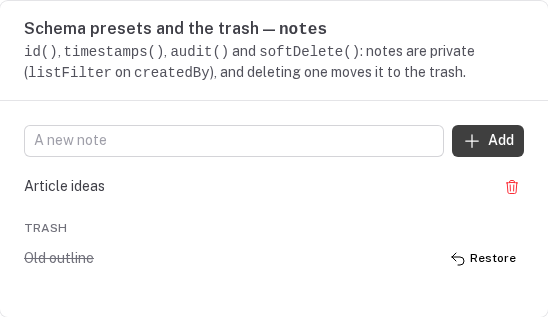
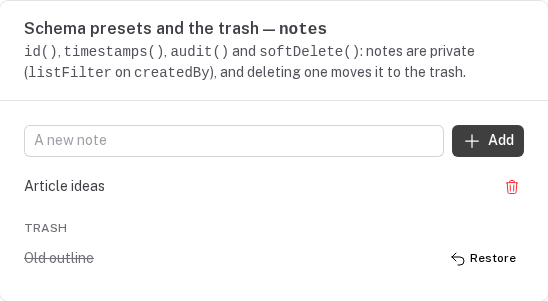
docs(playground): recipes use scope, row and refusal
publish takes permissions.publish instead of a named gate. New recipes: unpublish (the row rule decides), search (a POST that only reads) and export (a permission with no resource).

diff --git a/apps/playground/app/pages/demo/recipes.vue b/apps/playground/app/pages/demo/recipes.vue
@@ -59,15 +59,15 @@
         </div>
       </UCard>
 
-      <!-- named gate -->
+      <!-- scope + row + refusal -->
       <UCard>
         <template #header>
           <h3 class="font-semibold">
-            A gate of its own — <code>endpointName</code>
+            An action of its own — <code>scope</code>, <code>row</code>, <code>refusal</code>
           </h3>
           <p class="text-sm text-neutral-600 dark:text-neutral-400">
-            Authors may edit only their own posts, but <code>POST /api/recipes/posts/:id/publish</code> is gated by
-            <code>custom.publish</code>: editors and admins publish any draft.
+            Authors may edit only their own posts, but <code>POST /api/recipes/posts/:id/publish</code> asks
+            <code>permissions.publish</code>: editors and admins publish any draft, and everyone else reads the refusal.
           </p>
         </template>
         <div class="flex gap-2">
@@ -91,6 +91,103 @@
           :class="publishResult.ok ? 'text-success' : 'text-error'"
         >
           {{ publishResult.message }}
+        </p>
+      </UCard>
+
+      <!-- the row rule -->
+      <UCard>
+        <template #header>
+          <h3 class="font-semibold">
+            The row rule decides — <code>scope: 'update'</code>
+          </h3>
+          <p class="text-sm text-neutral-600 dark:text-neutral-400">
+            <code>POST /api/recipes/posts/:id/unpublish</code> asks what <code>PATCH /api/posts/:id</code> asks, so
+            <code>objectLevel</code> lets an author take back only their own post.
+          </p>
+        </template>
+        <div class="flex gap-2">
+          <USelect
+            v-model="unpublishId"
+            :items="live"
+            placeholder="Pick a published post"
+            class="flex-1"
+          />
+          <UButton
+            :disabled="!unpublishId"
+            color="neutral"
+            icon="i-heroicons-arrow-uturn-left"
+            @click="unpublish"
+          >
+            Unpublish
+          </UButton>
+        </div>
+        <p
+          v-if="unpublishResult"
+          class="mt-3 text-sm"
+          :class="unpublishResult.ok ? 'text-success' : 'text-error'"
+        >
+          {{ unpublishResult.message }}
+        </p>
+      </UCard>
+
+      <!-- a POST that only reads -->
+      <UCard>
+        <template #header>
+          <h3 class="font-semibold">
+            A POST that only reads — <code>scope: 'read'</code>
+          </h3>
+          <p class="text-sm text-neutral-600 dark:text-neutral-400">
+            <code>POST /api/recipes/posts/search</code> would need <code>create</code> by its method. Its scope says it
+            only reads, so a signed-out reader and a read-only token may call it.
+          </p>
+        </template>
+        <div class="flex gap-2">
+          <UInput
+            v-model="searchText"
+            placeholder="Search titles"
+            class="flex-1"
+          />
+          <UButton
+            :disabled="!searchText"
+            icon="i-heroicons-magnifying-glass"
+            @click="search"
+          >
+            Search
+          </UButton>
+        </div>
+        <p
+          v-if="searchResult"
+          class="mt-3 text-sm"
+          :class="searchResult.ok ? 'text-success' : 'text-error'"
+        >
+          {{ searchResult.message }}
+        </p>
+      </UCard>
+
+      <!-- a whole permission -->
+      <UCard>
+        <template #header>
+          <h3 class="font-semibold">
+            A permission of no resource — <code>scope: 'reports:export'</code>
+          </h3>
+          <p class="text-sm text-neutral-600 dark:text-neutral-400">
+            <code>GET /api/recipes/export</code> has no <code>resource</code>. A scope with a colon names the whole
+            permission, and here only admins hold it.
+          </p>
+        </template>
+        <UButton
+          color="neutral"
+          icon="i-heroicons-arrow-down-tray"
+          @click="exportReport"
+        >
+          Export
+        </UButton>
+        <p
+          v-if="exportResult"
+          class="mt-3 text-sm"
+          :class="exportResult.ok ? 'text-success' : 'text-error'"
+        >
+          {{ exportResult.message }}
         </p>
       </UCard>
 
@@ -231,9 +328,10 @@ async function loadPosts() {
   posts.value = (await $fetch<{ data: Post[] }>('/api/posts', { query: { limit: 50, sort: 'id' } })).data
 }
 const drafts = computed(() => posts.value.filter(p => !p.published).map(p => ({ label: `#${p.id} ${p.title}`, value: p.id })))
+const live = computed(() => posts.value.filter(p => p.published).map(p => ({ label: `#${p.id} ${p.title}`, value: p.id })))
 const firstPosts = computed(() => posts.value.slice(0, 5))
 
-// Named gate
+// scope + row + refusal
 const publishId = ref<number | undefined>()
 const publishResult = ref<{ ok: boolean, message: string } | null>(null)
 async function publish() {
@@ -244,6 +342,43 @@ async function publish() {
     await Promise.all([loadPosts(), loadStats()])
   } catch (e) {
     publishResult.value = { ok: false, message: message(e) }
+  }
+}
+
+// The row rule
+const unpublishId = ref<number | undefined>()
+const unpublishResult = ref<{ ok: boolean, message: string } | null>(null)
+async function unpublish() {
+  try {
+    const { data } = await $fetch<{ data: Post }>(`/api/recipes/posts/${unpublishId.value}/unpublish`, { method: 'POST' })
+    unpublishResult.value = { ok: true, message: `Unpublished "${data.title}"` }
+    unpublishId.value = undefined
+    await Promise.all([loadPosts(), loadStats()])
+  } catch (e) {
+    unpublishResult.value = { ok: false, message: message(e) }
+  }
+}
+
+// A POST that only reads
+const searchText = ref('')
+const searchResult = ref<{ ok: boolean, message: string } | null>(null)
+async function search() {
+  try {
+    const { data } = await $fetch<{ data: Post[] }>('/api/recipes/posts/search', { method: 'POST', body: { text: searchText.value } })
+    searchResult.value = { ok: true, message: `${data.length} ${data.length === 1 ? 'post' : 'posts'} found` }
+  } catch (e) {
+    searchResult.value = { ok: false, message: message(e) }
+  }
+}
+
+// A whole permission
+const exportResult = ref<{ ok: boolean, message: string } | null>(null)
+async function exportReport() {
+  try {
+    const { data } = await $fetch<{ data: { users: number, posts: number } }>('/api/recipes/export')
+    exportResult.value = { ok: true, message: `${data.users} users, ${data.posts} posts` }
+  } catch (e) {
+    exportResult.value = { ok: false, message: message(e) }
   }
 }
 

diff --git a/apps/playground/modules/base/auth.ts b/apps/playground/modules/base/auth.ts
@@ -57,23 +57,26 @@ export const postsAuth: ResourceAuthConfig = {
     // Authenticated users can update (but object-level auth will restrict to own posts)
     update: context => !!context.user,
     // Authenticated users can delete (but object-level auth will restrict to own posts)
-    delete: context => !!context.user
-  },
-  // Named gates for custom endpoints (createEndpoint({ endpointName })): publishing is for editors and admins, on
-  // any post — /api/recipes/posts/:id/publish
-  custom: {
-    publish: { permissions: { update: ['editor', 'admin'] } }
+    delete: context => !!context.user,
+    // An action of its own: createEndpoint({ scope: 'publish' }) — /api/recipes/posts/:id/publish
+    publish: ['editor', 'admin']
   },
   // Object-level: users can only edit their own posts unless they're admin
   objectLevel: async (object, context) => {
+    // What's being done: a custom endpoint's scope, else the generated route's operation
+    const action = context.endpointScope ?? context.operation
+
     // Allow reading all posts
-    if (context.operation === 'get' || context.operation === 'list') return true
+    if (action === 'get' || action === 'list' || action === 'read') return true
 
     // Admins can do anything
     if (context.user?.role === 'admin') return true
 
+    // permissions.publish decided: editors publish anyone's post
+    if (action === 'publish') return true
+
     // For update/delete, must be the owner
-    if (context.operation === 'update' || context.operation === 'delete') {
+    if (action === 'update' || action === 'delete') {
       return context.user && String(object.userId) === String(context.user.id)
     }
 

diff --git a/apps/playground/server/api/users/[id]/stats.get.ts b/apps/playground/server/api/users/[id]/stats.get.ts
@@ -3,25 +3,21 @@ import { posts, comments } from '../../../database/schema'
 
 /**
  * Custom endpoint using createEndpoint (auto-imported).
- * Demonstrates: resource-bound endpoint, row access helpers, response filtering.
+ * Demonstrates: `row` on a GET, and the response filtered like the generated route's.
  */
 export default createEndpoint({
   resource: 'users',
-  operation: 'get',
+  row: 'id', // the answers of GET /api/users/:id: 404 when invisible or missing, 403 when objectLevel refuses
 
   async handler(ctx) {
-    // The same row visibility as GET /api/users/:id: 404 when invisible or missing, 403 when objectLevel refuses
-    const user = await findAuthorizedRow(ctx, 'users', ctx.params.id)
-
     const [[postStats], [commentStats]] = await Promise.all([
-      ctx.db.select({ count: count() }).from(posts).where(eq(posts.userId, user.id)),
-      ctx.db.select({ count: count() }).from(comments).where(eq(comments.userId, user.id))
+      ctx.db.select({ count: count() }).from(posts).where(eq(posts.userId, ctx.row.id)),
+      ctx.db.select({ count: count() }).from(comments).where(eq(comments.userId, ctx.row.id))
     ])
 
-    // The response is filtered like GET /api/users/:id: hidden fields (password, apiKey) and the fields the caller
-    // may not read (email) are removed for you
+    // Hidden fields (password, apiKey) and the fields the caller may not read (email) are removed for you
     return {
-      ...user,
+      ...ctx.row,
       stats: {
         postCount: postStats!.count,
         commentCount: commentStats!.count

diff --git a/apps/playground/server/api/recipes/posts/[id]/publish.post.ts b/apps/playground/server/api/recipes/posts/[id]/publish.post.ts
@@ -1,20 +1,14 @@
-import { and, eq } from 'drizzle-orm'
 import { posts } from '../../../../database/schema'
 
 /**
- * Recipe: a named gate. `endpointName: 'publish'` is checked against `postsAuth.custom.publish` — editors and admins
- * may publish any post — instead of posts' own `update` rule, which lets authors edit only their own posts.
+ * Recipe: an action of its own. `scope: 'publish'` asks `postsAuth.permissions.publish` (editors and admins), `row: 'id'`
+ * loads the post into `ctx.row` (404 when it's missing or hidden), and `refusal` is what everyone else is told.
  */
 export default createEndpoint({
   resource: 'posts',
-  operation: 'update',
-  endpointName: 'publish',
+  scope: 'publish',
+  row: 'id',
+  refusal: 'Only editors and admins publish posts.',
 
-  async handler(ctx) {
-    // The gate decided who may publish; the row still has to be visible to the caller
-    const id = Number(ctx.params.id)
-    const [post] = await ctx.db.select().from(posts).where(and(eq(posts.id, id), rowScope(ctx, 'posts', posts)))
-    if (!post) throw createError({ statusCode: 404, message: `Post ${ctx.params.id} not found` })
-    return updateReturning(ctx.db, posts, id, { published: true, updatedAt: new Date() })
-  }
+  handler: ctx => updateReturning(ctx.db, posts, ctx.row.id, { published: true, updatedAt: new Date() })
 })

diff --git a/apps/playground/server/api/recipes/export.get.ts b/apps/playground/server/api/recipes/export.get.ts
@@ -1,0 +1,19 @@
+import { count } from 'drizzle-orm'
+import { posts, users } from '../../database/schema'
+
+/**
+ * Recipe: a permission that belongs to no resource. A `scope` with a colon names the whole string, here one only admins
+ * hold (server/plugins/auth.ts). With no `resource`, it's the only form of `scope` there is.
+ */
+export default createEndpoint({
+  scope: 'reports:export',
+  refusal: 'Only admins export reports.',
+
+  async handler(ctx) {
+    const [[people], [written]] = await Promise.all([
+      ctx.db.select({ total: count() }).from(users),
+      ctx.db.select({ total: count() }).from(posts)
+    ])
+    return { users: people!.total, posts: written!.total }
+  }
+})

diff --git a/apps/playground/server/api/recipes/posts/search.post.ts b/apps/playground/server/api/recipes/posts/search.post.ts
@@ -1,0 +1,16 @@
+import { and, like } from 'drizzle-orm'
+import { z } from 'zod'
+import { posts } from '../../../database/schema'
+
+/**
+ * Recipe: a POST that only reads. The method alone would ask for `create`; `scope: 'read'` says what the endpoint really
+ * needs, so a signed-out reader and a read-only API token (`posts:read`) may call it. `rowScope` keeps its query to what
+ * the list would show.
+ */
+export default createEndpoint({
+  resource: 'posts',
+  scope: 'read',
+  body: z.object({ text: z.string().min(1) }),
+
+  handler: ctx => ctx.db.select().from(posts).where(and(like(posts.title, `%${ctx.body.text}%`), rowScope(ctx, 'posts', posts)))
+})

diff --git a/apps/playground/server/api/recipes/posts/[id]/unpublish.post.ts b/apps/playground/server/api/recipes/posts/[id]/unpublish.post.ts
@@ -1,0 +1,14 @@
+import { posts } from '../../../../database/schema'
+
+/**
+ * Recipe: the row rule decides. `scope: 'update'` asks the same two rules as PATCH /api/posts/:id: `permissions.update`
+ * for the person, then `objectLevel` for this row, so an author can take back only their own post (403 otherwise).
+ */
+export default createEndpoint({
+  resource: 'posts',
+  scope: 'update',
+  row: 'id',
+  refusal: 'You can only unpublish your own posts.',
+
+  handler: ctx => updateReturning(ctx.db, posts, ctx.row.id, { published: false, updatedAt: new Date() })
+})

diff --git a/apps/playground/server/api/recipes/posts/duplicate.post.ts b/apps/playground/server/api/recipes/posts/duplicate.post.ts
@@ -12,8 +12,7 @@ import { posts } from '../../../database/schema'
 const readable = (ctx: Parameters<typeof findAuthorizedRows>[0], ids: number[]) =>
   findAuthorizedRows({ ...ctx, operation: 'get' }, 'posts', ids)
 export default createEndpoint({
-  resource: 'posts',
-  operation: 'create', // gated by posts' `create` permission
+  resource: 'posts', // a POST: posts' `create` permission
   body: z.object({ ids: z.array(z.number().int()).min(1).max(10) }),
 
   authorize: async ctx => (await readable(ctx, ctx.body.ids)).length === new Set(ctx.body.ids).size,

diff --git a/apps/playground/server/plugins/auth.ts b/apps/playground/server/plugins/auth.ts
@@ -59,7 +59,7 @@ export default defineNitroPlugin((nitroApp) => {
       // Set permissions based on role
       // The permissions array should contain role names that match the auth configs
       if (demoUser.role === 'admin') {
-        event.context.permissions = ['admin']
+        event.context.permissions = ['admin', 'reports:export']
       } else if (demoUser.role === 'editor') {
         event.context.permissions = ['editor']
       } else {

diff --git a/apps/playground/server/api/recipes/post-stats.get.ts b/apps/playground/server/api/recipes/post-stats.get.ts
@@ -6,8 +6,7 @@ import { posts } from '../../database/schema'
  * (tenant, `listFilter`, soft delete) as one SQL condition, so a custom query cannot count past it.
  */
 export default createEndpoint({
-  resource: 'posts',
-  operation: 'list', // gated by posts' `read` permission
+  resource: 'posts', // a GET: posts' `read` permission
 
   async handler(ctx) {
     const rows = await ctx.db

diff --git a/apps/docs/content/2.auto-api/15.custom-endpoints.md b/apps/docs/content/2.auto-api/15.custom-endpoints.md
@@ -164,10 +164,6 @@ export default createEndpoint({
 })
 ```
 
-In the playground: [`/api/recipes/posts/:id/publish`](https://github.com/websideproject/nuxt-auto/blob/main/apps/playground/server/api/recipes/posts/%5Bid%5D/publish.post.ts)
-lets editors publish any post while posts' own `update` rule keeps authors to their own (`/demo/recipes`).
-
-![The playground's recipes page, signed in as the editor: post counts through rowScope, the publish endpoint with its own gate, duplicating posts with authorize, and the notes trash](/screenshots/api-recipes-1440.png)
 
 ### The permission (`scope`)
 
@@ -206,6 +202,13 @@ export const postsAuth: ResourceAuthConfig = {
   permissions: { read: true, update: 'posts:update', publish: ctx => ctx.user?.plan === 'team' },
 }
 ```
+
+In the playground (`/demo/recipes`): [`publish`](https://github.com/websideproject/nuxt-auto/blob/main/apps/playground/server/api/recipes/posts/%5Bid%5D/publish.post.ts) is an action of its own,
+[`unpublish`](https://github.com/websideproject/nuxt-auto/blob/main/apps/playground/server/api/recipes/posts/%5Bid%5D/unpublish.post.ts) leaves the decision to the row rule,
+[`search`](https://github.com/websideproject/nuxt-auto/blob/main/apps/playground/server/api/recipes/posts/search.post.ts) is a POST that only reads, and [`export`](https://github.com/websideproject/nuxt-auto/blob/main/apps/playground/server/api/recipes/export.get.ts) names a whole
+permission with no resource.
+
+![The playground's recipes page, signed in as the editor: post counts through rowScope, the publish, unpublish, search and export endpoints, duplicating posts with authorize, and the notes trash](/screenshots/api-recipes-1440.png)
 
 A [named gate](#named-gates-endpointname) that declares the operation still decides first, and `skipAuthorization`
 leaves only the token's check. A bare word with no `resource` has nothing to mean, so it fails at startup.
